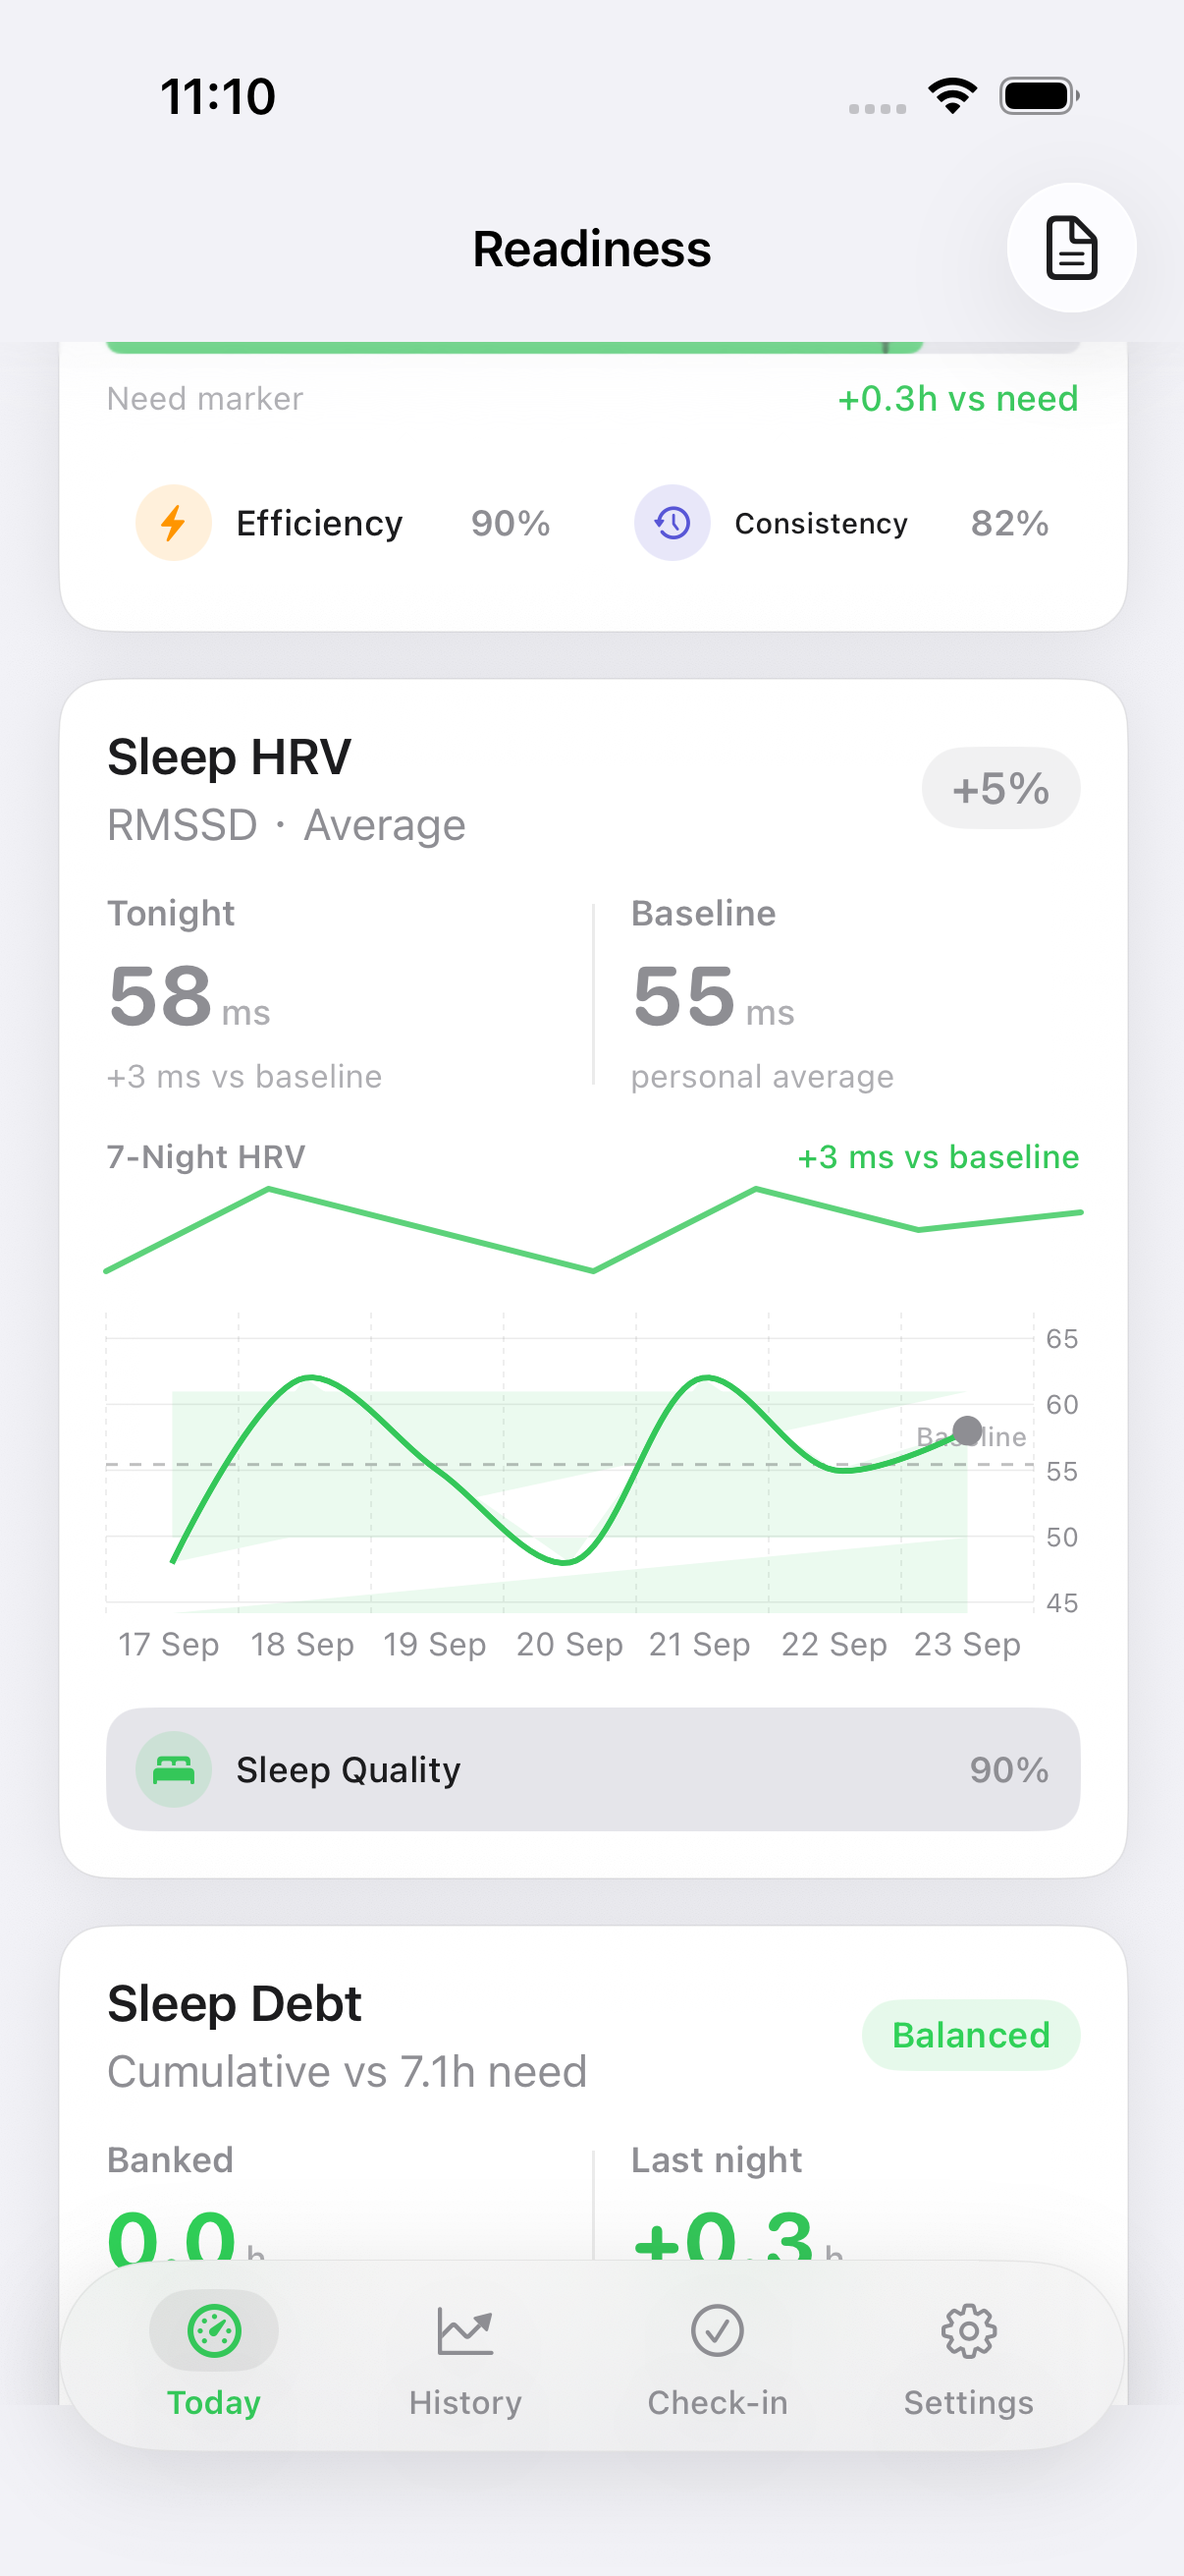
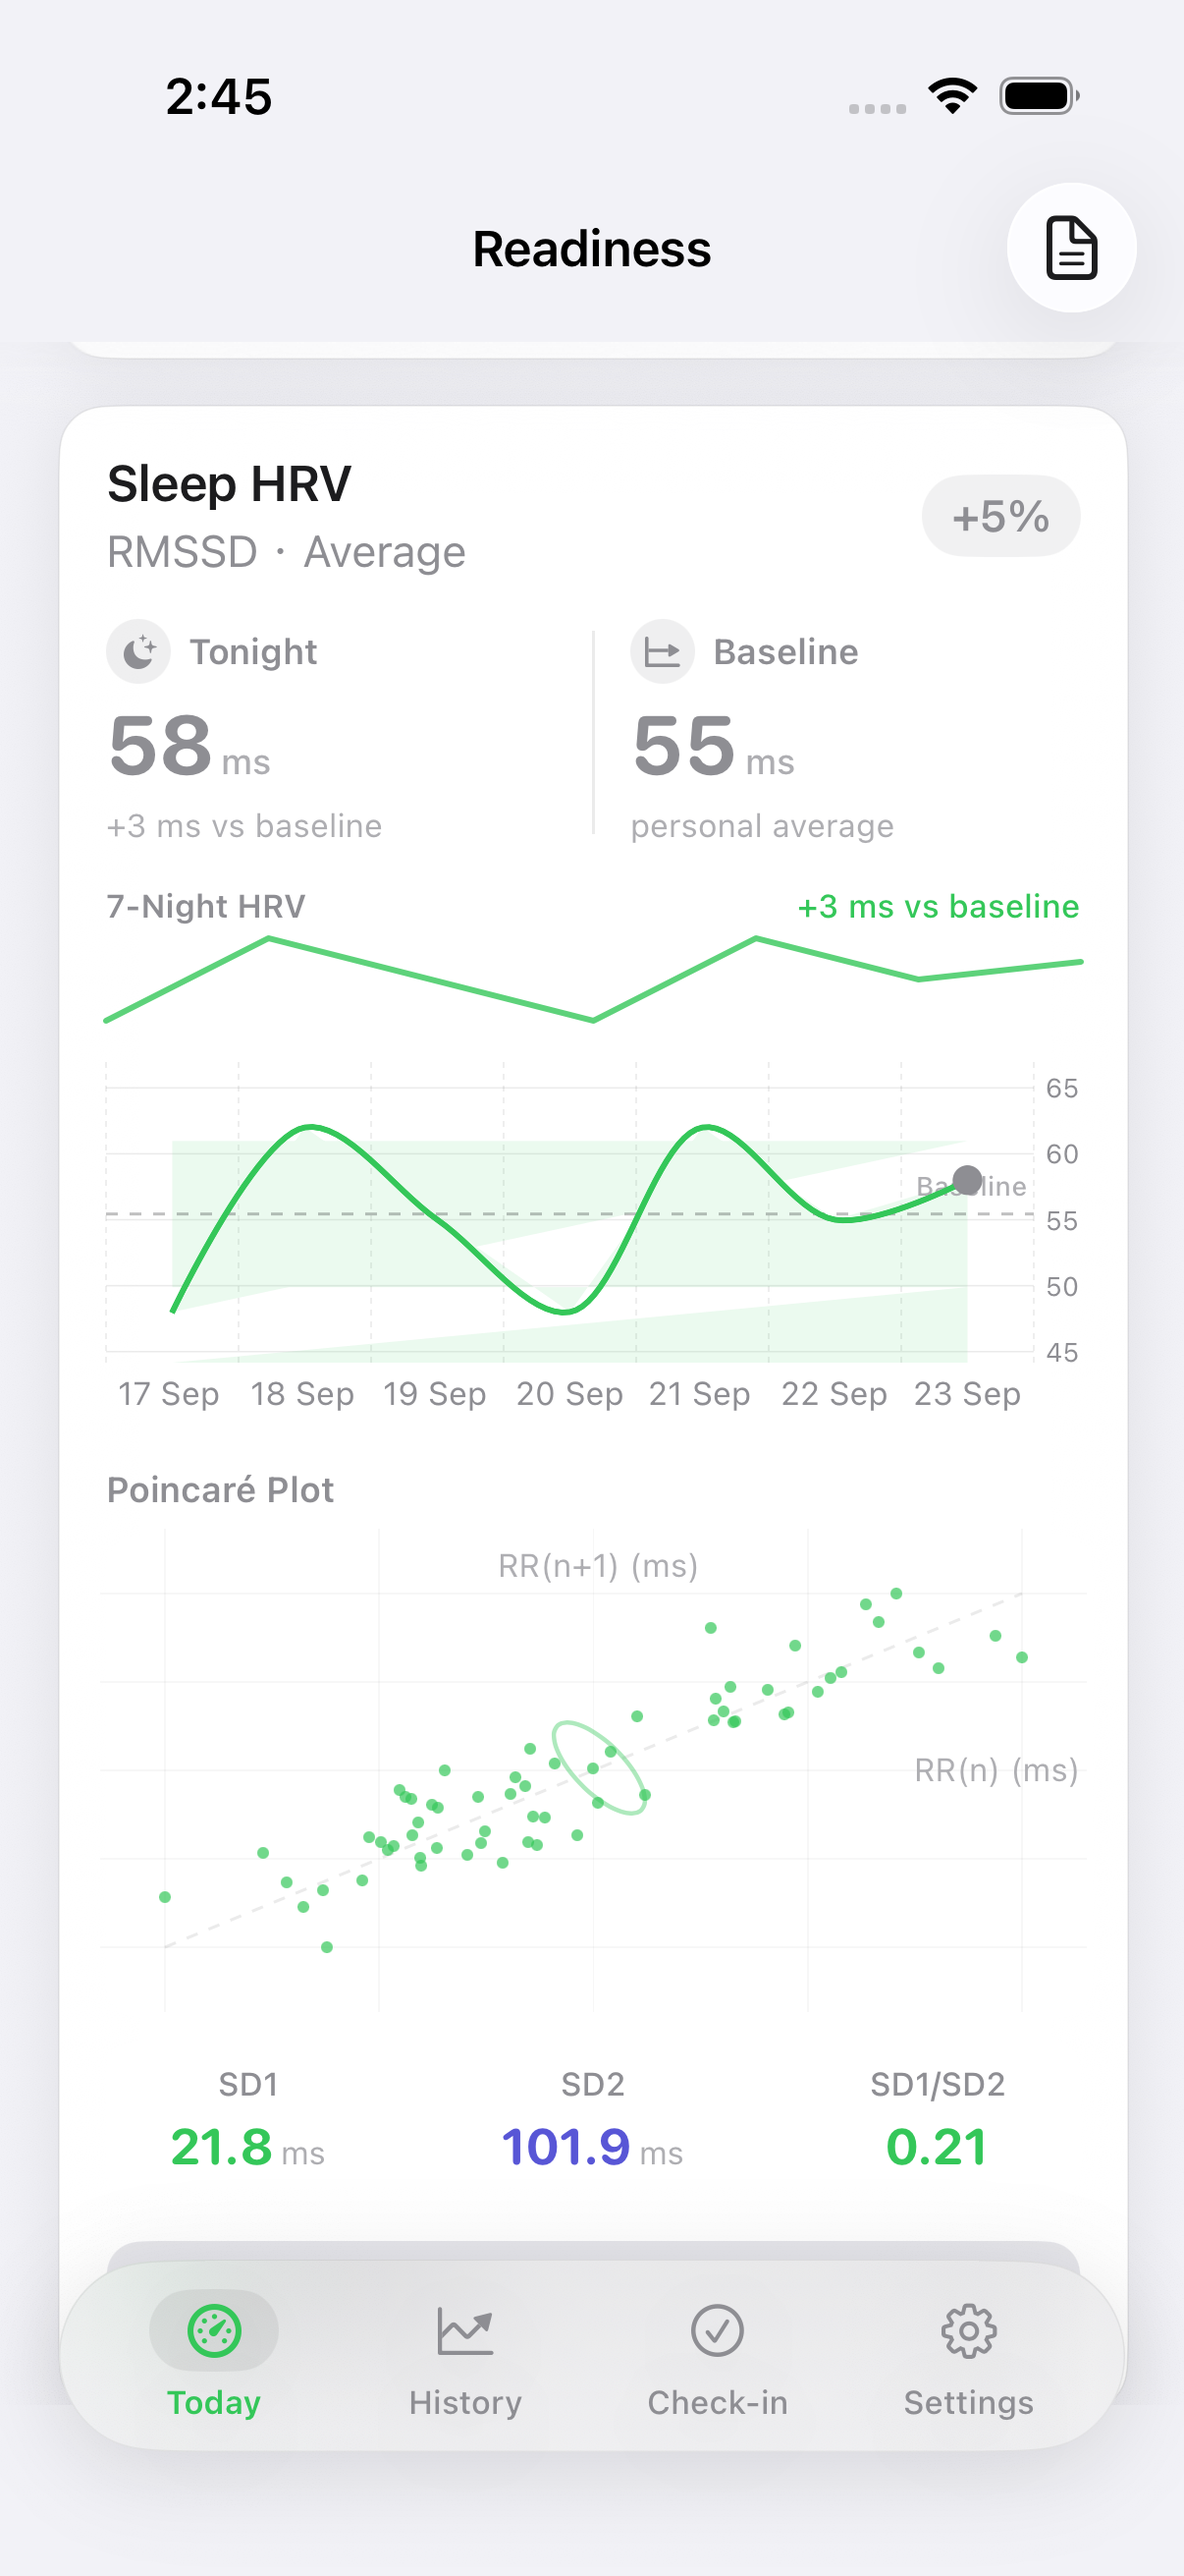
Honest #103: Sleep HRV Poincaré RR scatter (#121)
Wire existing PoincarePlotView into Sleep HRV (synthetic RR from Tonight RMSSD when beat-to-beat absent). Soft UITest + verify-sleep-hrv.png + feature map.

diff --git a/ReadinessTracker/Views/WhoopFeatures/SleepHRVCard.swift b/ReadinessTracker/Views/WhoopFeatures/SleepHRVCard.swift
@@ -1,5 +1,6 @@
 import SwiftUI
 import Charts
+import Foundation
 
 /// WHOOP-style nocturnal HRV (RMSSD): Tonight vs Baseline dual callout,
 /// delta, baseline band on the trend chart, and a compact 7-night sparkline.
@@ -38,6 +39,35 @@ struct SleepHRVCard: View {
     private var chartPoints: [(date: Date, value: Double)] {
         hrvHistory.sorted { $0.date < $1.date }
     }
+
+
+    /// Synthetic RR series for Poincaré when HealthKit beat-to-beat samples are absent.
+    /// Mean RR ~1000 ms; successive differences scaled so RMSSD ≈ currentHRV.
+    private var syntheticRRIntervals: [Double] {
+        let n = 64
+        let meanRR = 1000.0
+        let targetRMSSD = max(10.0, currentHRV)
+        var rr: [Double] = []
+        var prev = meanRR
+        var seed = UInt64(abs(currentHRV * 100).rounded()) &+ 0x9E3779B97F4A7C15
+        func nextUnit() -> Double {
+            seed = seed &* 6364136223846793005 &+ 1
+            let x = Double(seed >> 33) / Double(UInt64(1) << 31)
+            seed = seed &* 6364136223846793005 &+ 1
+            let y = Double(seed >> 33) / Double(UInt64(1) << 31)
+            let u = max(1e-9, x)
+            let z = (-2.0 * Foundation.log(u)).squareRoot() * Foundation.cos(2 * .pi * y)
+            return z
+        }
+        for _ in 0..<n {
+            let diff = nextUnit() * targetRMSSD
+            let sample = max(400.0, min(1600.0, prev + diff * 0.5))
+            rr.append(sample)
+            prev = sample
+        }
+        return rr
+    }
+
 
     var body: some View {
         NativeCard {
@@ -189,6 +219,18 @@ struct SleepHRVCard: View {
                     }
                     .accessibilityLabel("Sleep HRV trend with baseline band")
                 }
+
+                // Honest #103: WHOOP-style Poincaré RR scatter (synthetic when beat-to-beat absent).
+                VStack(alignment: .leading, spacing: 8) {
+                    Text("Poincaré Plot")
+                        .font(.caption.weight(.semibold))
+                        .foregroundStyle(RTColor.secondaryText)
+                    PoincarePlotView(rrIntervals: syntheticRRIntervals, size: 160)
+                        .frame(maxWidth: .infinity)
+                        .accessibilityIdentifier(SurfaceID.sleepHRVPoincare)
+                        .accessibilityLabel("Poincaré plot of successive RR intervals")
+                }
+                .padding(.top, 4)
 
                 // Sleep Quality chip (compact one-liner; trend is now the dual + spark)
                 HStack(spacing: 8) {

diff --git a/ReadinessTracker/Design/PoincarePlotView.swift b/ReadinessTracker/Design/PoincarePlotView.swift
@@ -16,6 +16,7 @@ struct PoincarePlotView: View {
     private var sd1: Double {
         // Short-term variability (perpendicular to line of identity)
         let diffs = points.map { $0.y - $0.x }
+        guard !diffs.isEmpty else { return 0 }
         let mean = diffs.reduce(0, +) / Double(diffs.count)
         let variance = diffs.map { pow($0 - mean, 2) }.reduce(0, +) / Double(diffs.count)
         return sqrt(variance / 2)
@@ -24,6 +25,7 @@ struct PoincarePlotView: View {
     private var sd2: Double {
         // Long-term variability (along line of identity)
         let sums = points.map { $0.y + $0.x }
+        guard !sums.isEmpty else { return 0 }
         let mean = sums.reduce(0, +) / Double(sums.count)
         let variance = sums.map { pow($0 - mean, 2) }.reduce(0, +) / Double(sums.count)
         return sqrt(variance / 2)
@@ -43,7 +45,7 @@ struct PoincarePlotView: View {
                 let allValues = rrIntervals
                 let minVal = allValues.min() ?? 0
                 let maxVal = allValues.max() ?? 1
-                let range = maxVal - minVal
+                let range = max(maxVal - minVal, 1)
                 
                 ZStack {
                     // Background

diff --git a/ReadinessTrackerUITests/SurfacesUITests.swift b/ReadinessTrackerUITests/SurfacesUITests.swift
@@ -918,6 +918,9 @@ final class SurfacesUITests: XCTestCase {
         _ = app.staticTexts["7-Night HRV"].exists
         _ = app.descendants(matching: .any)["sleep.hrv.spark"].exists
         _ = app.staticTexts["Sleep Quality"].exists
+        // Honest #103: Poincaré RR scatter under Sleep HRV (soft — may need scroll).
+        _ = app.staticTexts["Poincaré Plot"].exists
+        _ = app.descendants(matching: .any)["sleep.hrv.poincare"].exists
         saveShot("verify-sleep-hrv.png")
     }
 

diff --git a/ReadinessTracker/Design/Theme.swift b/ReadinessTracker/Design/Theme.swift
@@ -132,6 +132,7 @@ enum SurfaceID {
     static let sleepPerformance = "sleep.performance"
     static let sleepHRVBaselineCallout = "sleep.hrv.baseline"
     static let sleepHRVSpark = "sleep.hrv.spark"
+    static let sleepHRVPoincare = "sleep.hrv.poincare"
     static let respiratoryCard = "respiratory.card"
     static let respiratoryBaselineCallout = "respiratory.baseline"
     static let respiratorySpark = "respiratory.spark"

diff --git a/.cursor/skills/verify-readiness-tracker/features/sleep-hrv-poincare.md b/.cursor/skills/verify-readiness-tracker/features/sleep-hrv-poincare.md
@@ -1,0 +1,17 @@
+# Sleep HRV Poincaré (#103)
+
+## Intent
+WHOOP-style nocturnal HRV analysis: successive RR-interval scatter (Poincaré) on the Sleep HRV card. Uses existing `PoincarePlotView`; synthetic RR when beat-to-beat samples are absent (scaled to Tonight RMSSD).
+
+## Surface
+- Today → Sleep HRV card → **Poincaré Plot** section
+- A11y: `sleep.hrv.poincare` (`SurfaceID.sleepHRVPoincare`)
+- Soft labels: "Poincaré Plot", SD1/SD2 badges from plot
+
+## Verify
+- UITest: `testSleepHRVSurface` soft-asserts plot label + id; shot `.audit/verify-sleep-hrv.png`
+- TREE GUARD already lists `verify-sleep-hrv.png`
+
+## Non-goals
+- No new readiness scoring
+- No HealthKit beat-to-beat wiring in this PR (synthetic fixture path)
